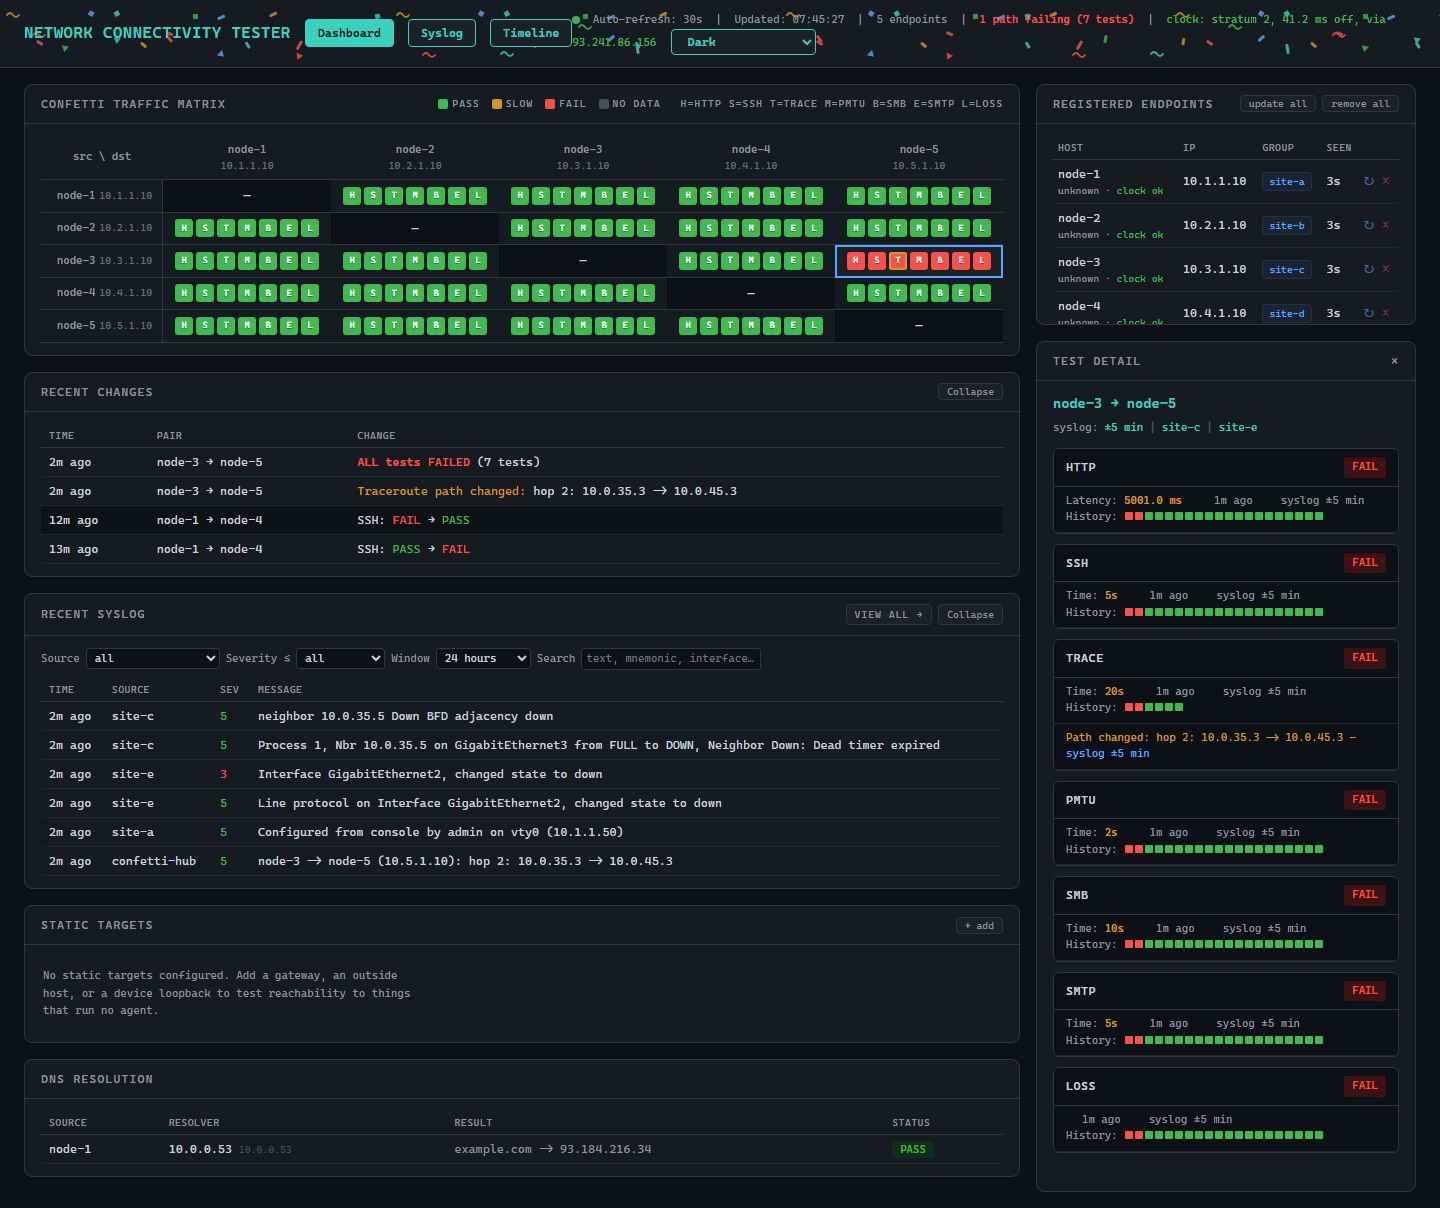
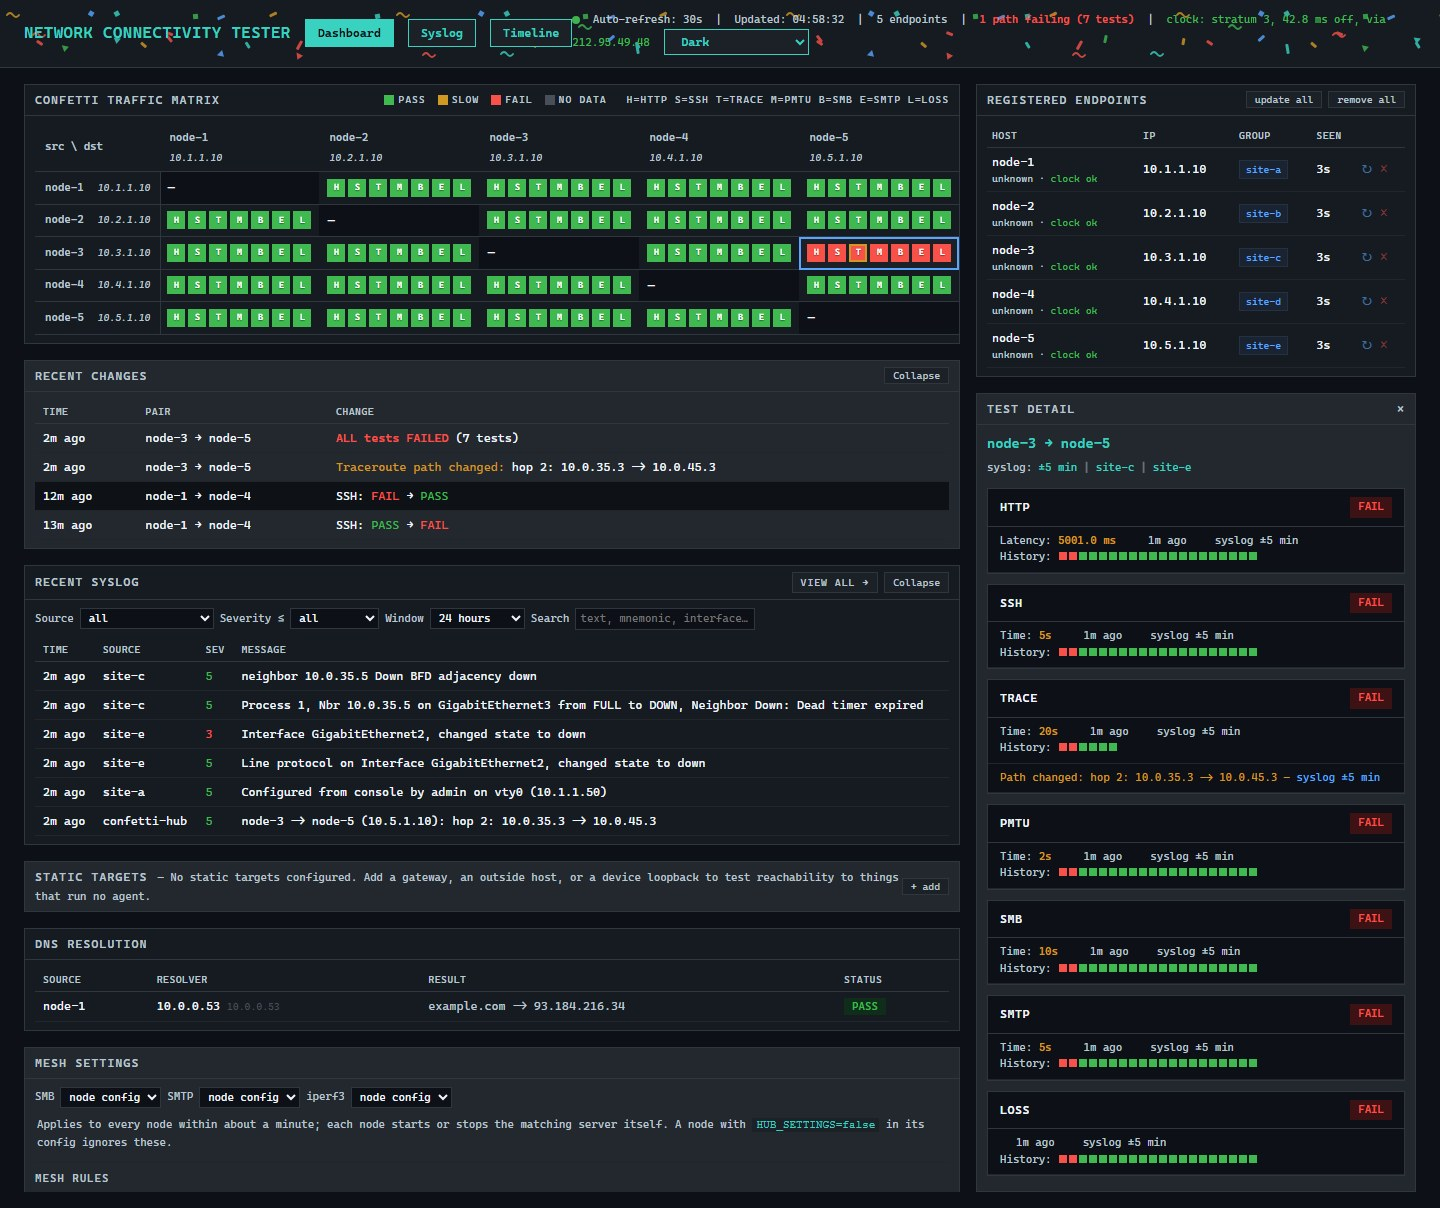
README images re-captured for the new dashboard look
Both images taken from an Alpine hub container with real chronyd. Also keeps
section-header buttons from shrinking, so a long empty-state title (Static
Targets) no longer wraps "+ add" onto two lines.

diff --git a/hub/templates/dashboard.html b/hub/templates/dashboard.html
@@ -594,7 +594,7 @@ a:hover { text-decoration: underline; }
 .clock.warn  { color: var(--yellow); }
 .clock.bad   { color: var(--red); font-weight: 600; }
 
-.hdr-actions { display: flex; gap: 6px; }
+.hdr-actions { display: flex; gap: 6px; flex-shrink: 0; white-space: nowrap; }
 .btn-small {
     background: var(--bg-hover);
     border: 1px solid var(--border);
